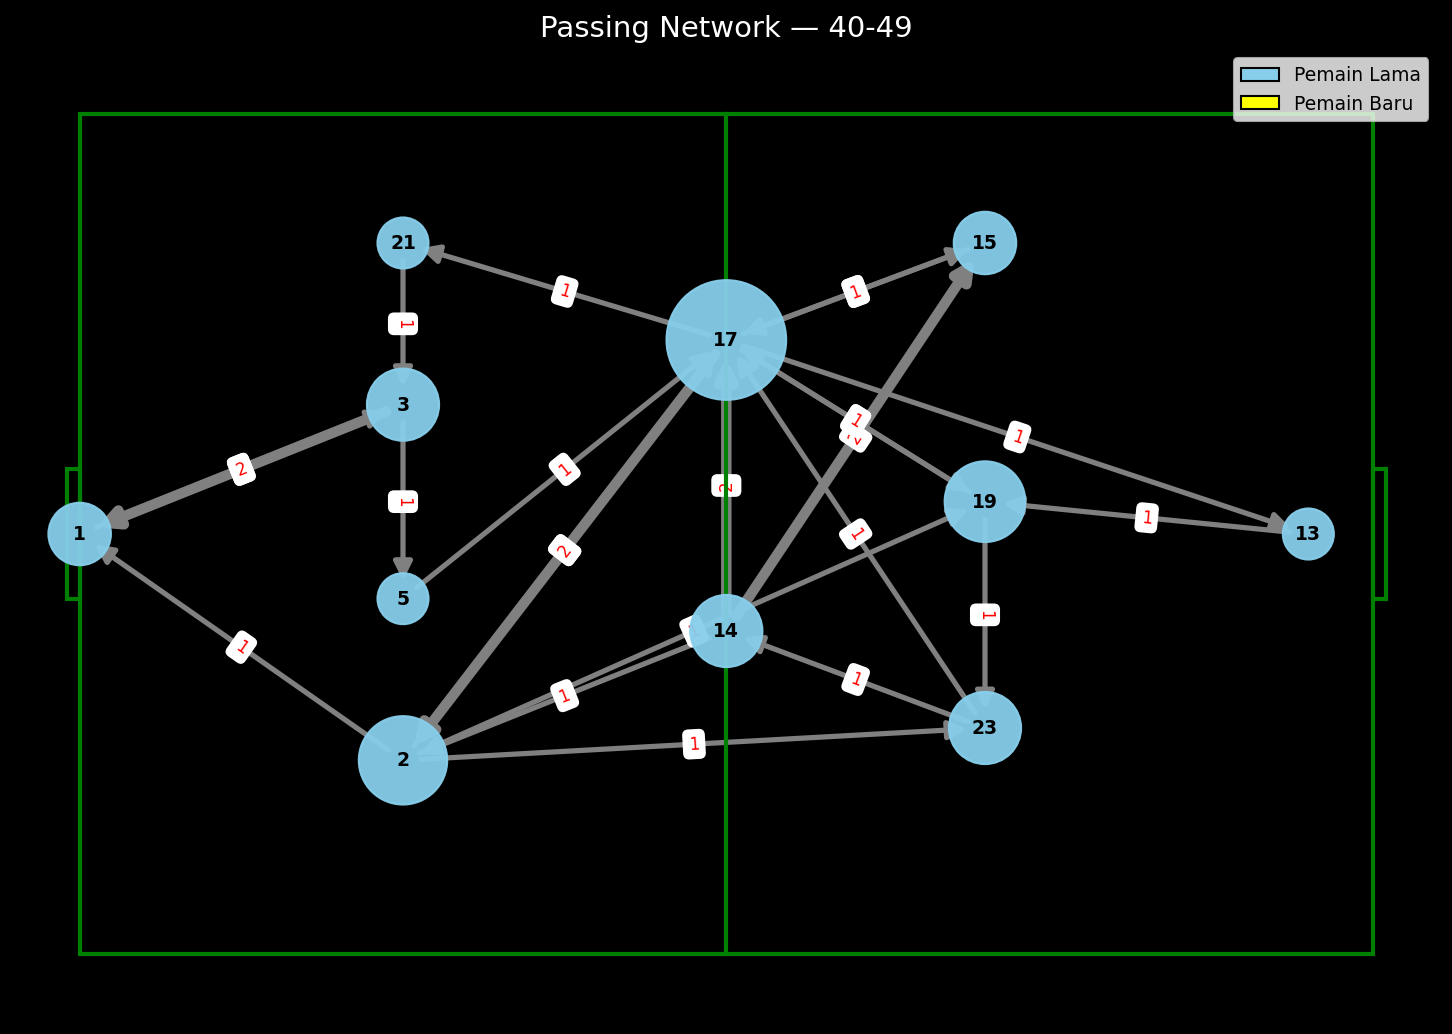
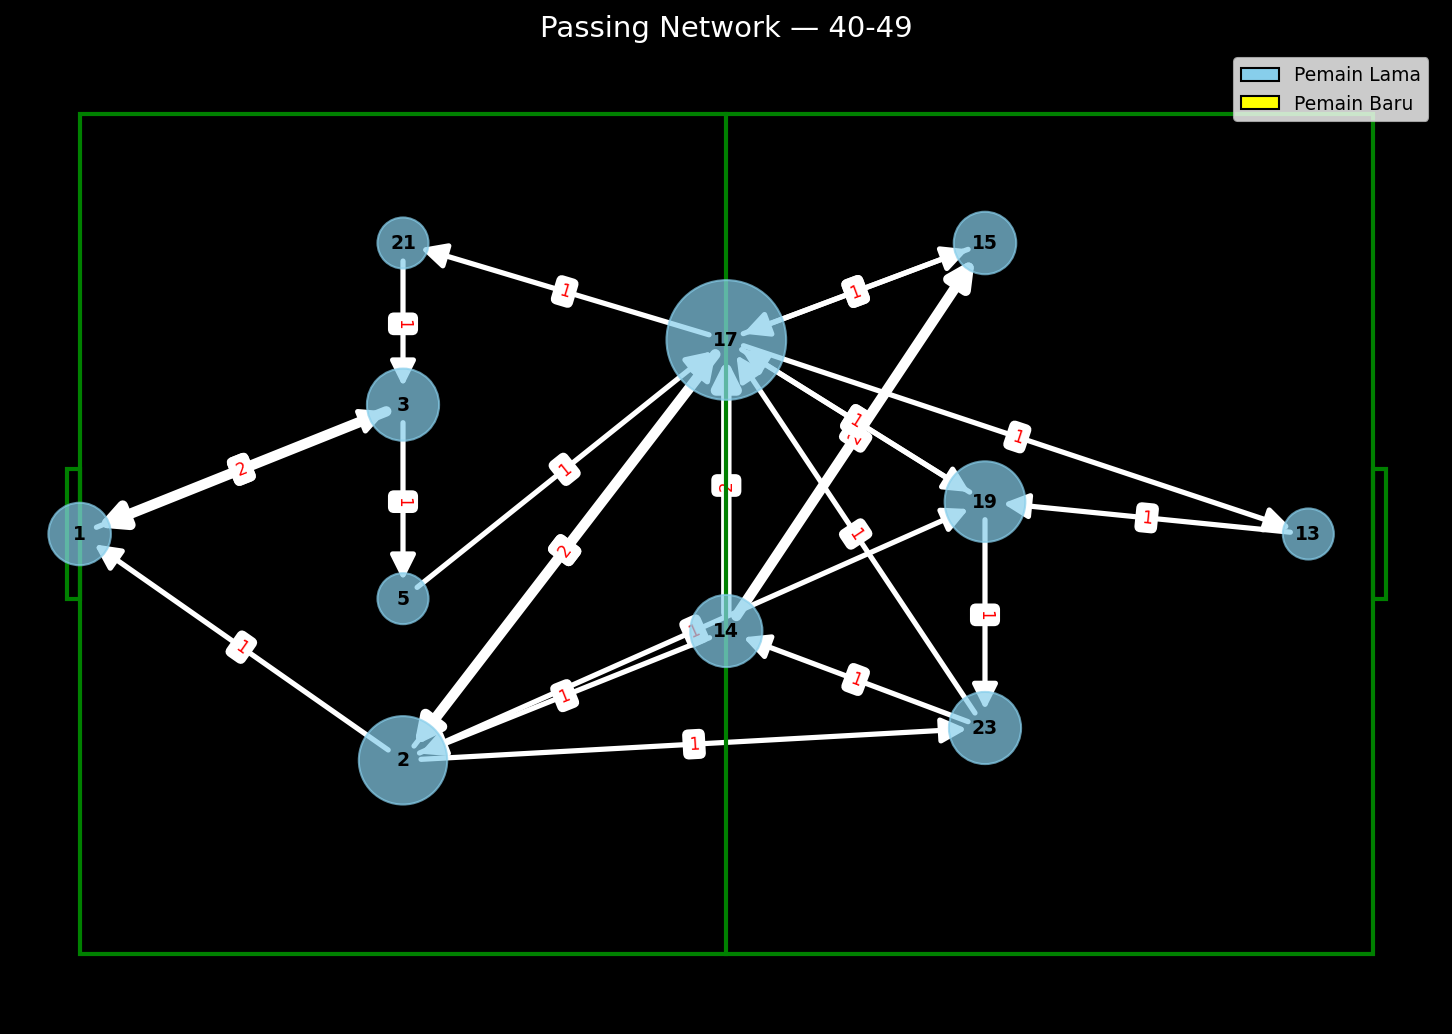
change ui

diff --git a/app/passing.py b/app/passing.py
@@ -99,8 +99,14 @@ def analyze_and_plot(G, pos, interval_name, previous_nodes, out_dir=OUT_DIR, sho
             node_colors.append('skyblue')
 
     # Gambar network
-    nx.draw_networkx_nodes(G, pos, node_color=node_colors, node_size=node_sizes, alpha=0.95)
-    nx.draw_networkx_edges(G, pos, edgelist=edges, edge_color='gray', width=scaled_weights, arrows=True, arrowsize=18)
+    nx.draw_networkx_nodes(G, pos, node_color=node_colors, node_size=node_sizes, alpha=0.70)
+# Bayangan tebal abu-abu
+    nx.draw_networkx_edges(
+        G, pos, edgelist=edges,
+        edge_color='white', width=scaled_weights,
+        arrows=True, arrowsize=[max(25, w*3) for w in scaled_weights], arrowstyle='-|>'
+    )
+
     nx.draw_networkx_labels(G, pos, font_size=9, font_weight='bold')
 
     edge_labels = nx.get_edge_attributes(G, 'weight')
